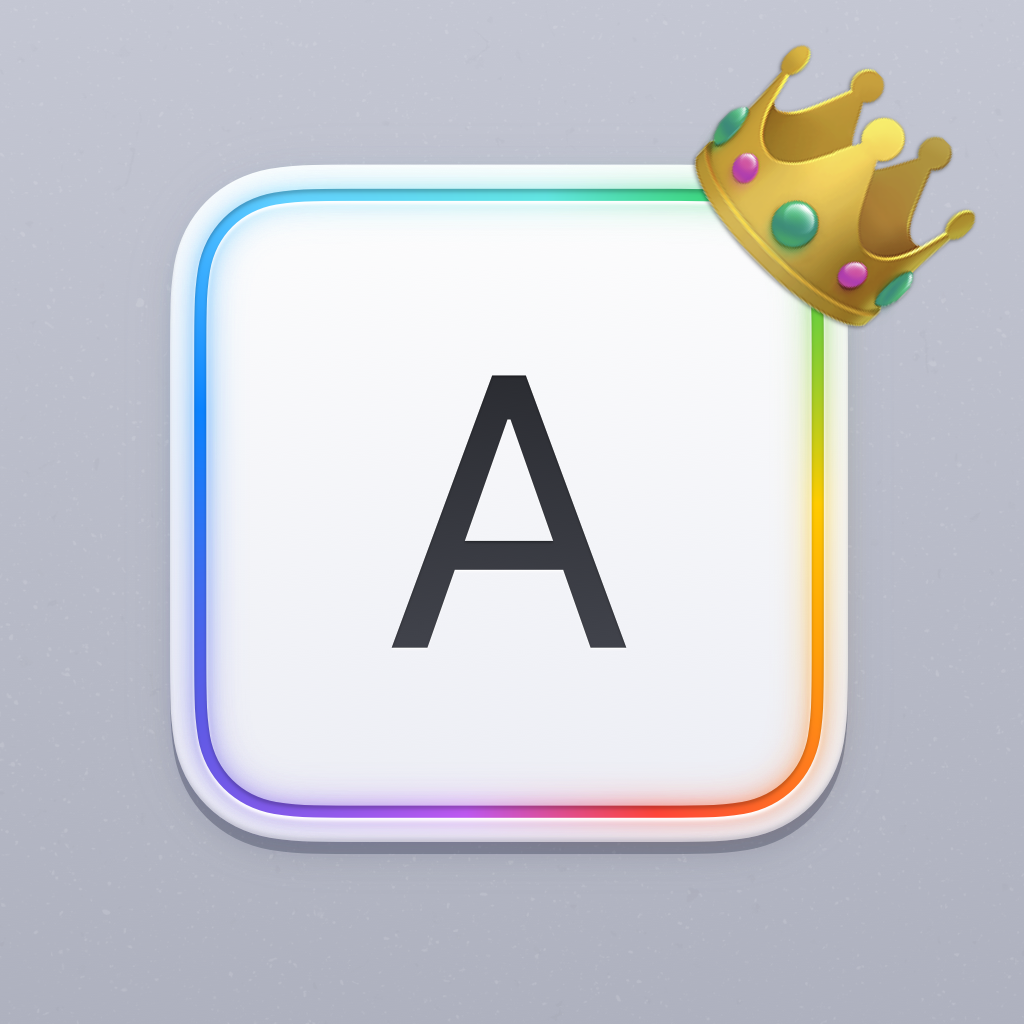
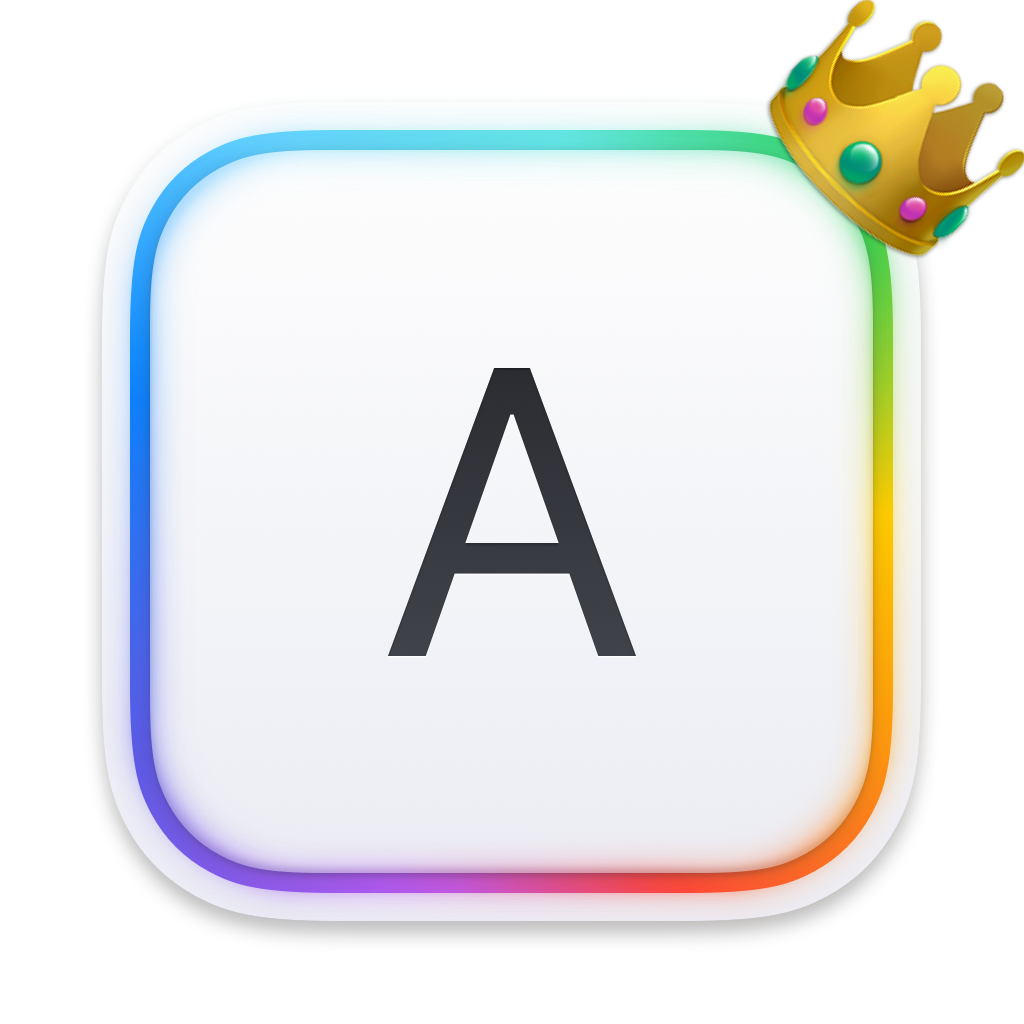
Update package

diff --git a/Package.swift b/Package.swift
@@ -20,8 +20,8 @@ let package = Package(
     targets: [
         .binaryTarget(
             name: "KeyboardKitPro",
-            url: "https://github.com/KeyboardKit/KeyboardKit/releases/download/9.3.5/KeyboardKitPro.zip",
[1 lines of base64/hex data omitted]
+            url: "https://github.com/KeyboardKit/KeyboardKit/releases/download/9.3.6/KeyboardKitPro.zip",
[1 lines of base64/hex data omitted]
         )
     ]
 )

diff --git a/README.md b/README.md
@@ -1,4 +1,6 @@
-![KeyboardKit Pro Logo](Resources/Logo.png)
+<p align="center">
+    <img src="Resources/Icon.png" alt="Project Icon" width="250" />
+</p>
 
 <p align="center">
     <img src="https://img.shields.io/github/v/release/KeyboardKit/KeyboardKitPro?color=forestgreen&sort=semver" alt="Version" />
@@ -6,7 +8,6 @@
     <img src="https://img.shields.io/badge/swift-5.9-orange.svg" alt="Swift 5.9" />
     <img src="https://img.shields.io/badge/license-commercial-yellow.svg" alt="Documentation" />
 </p>
-
 
 
 # KeyboardKit Pro
